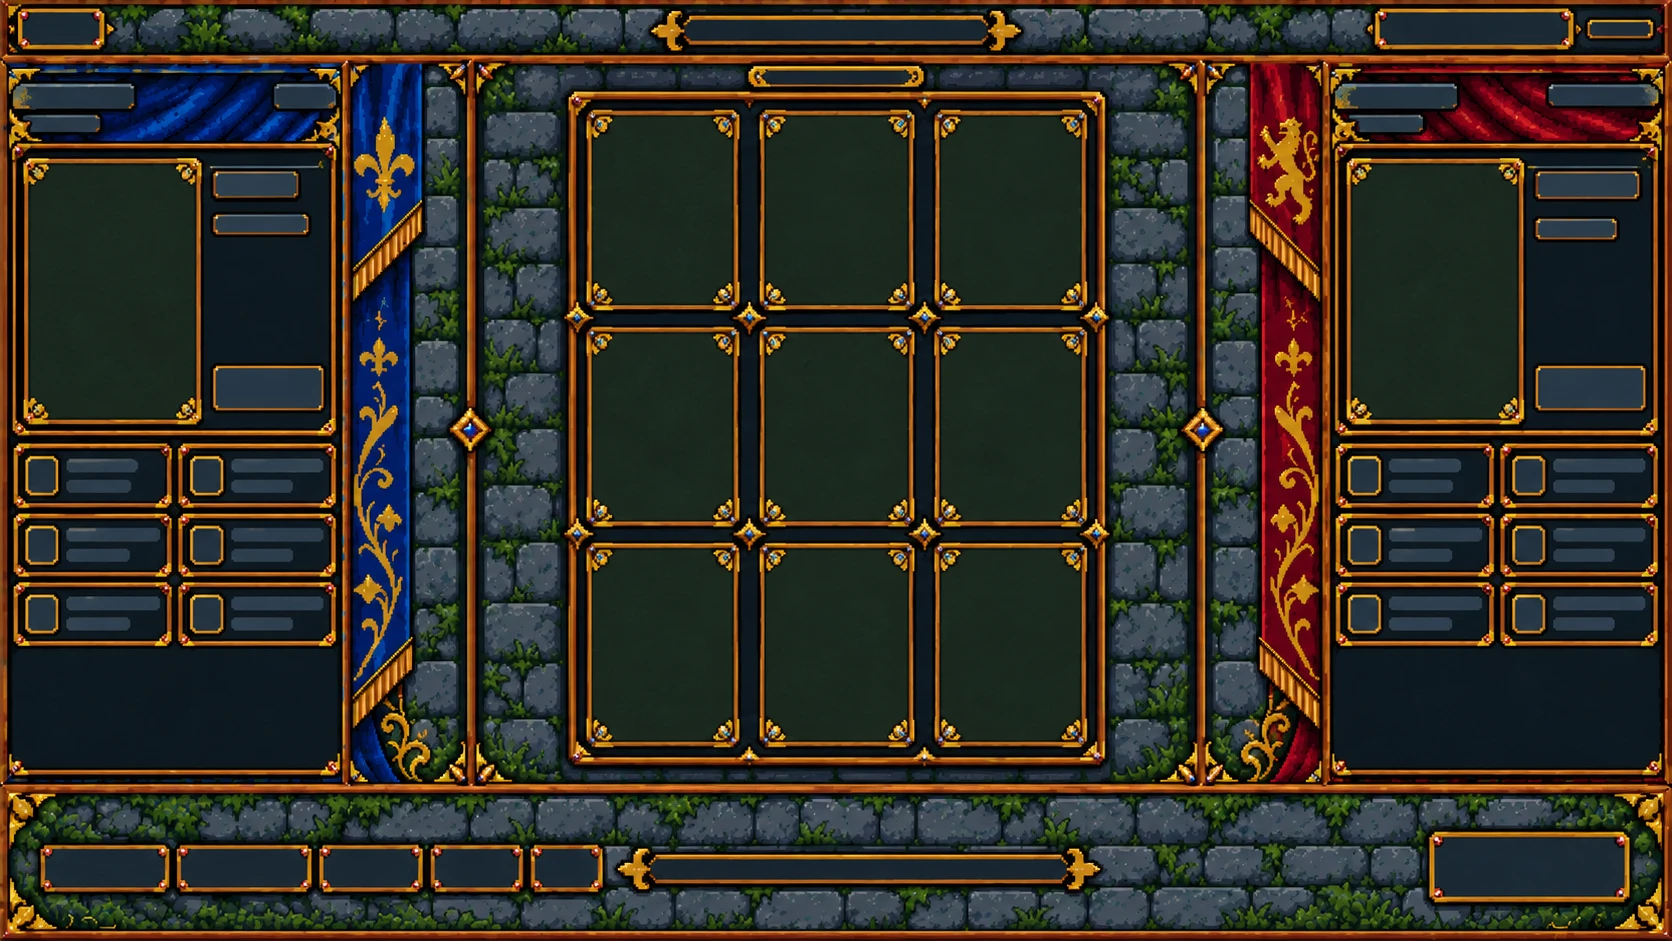
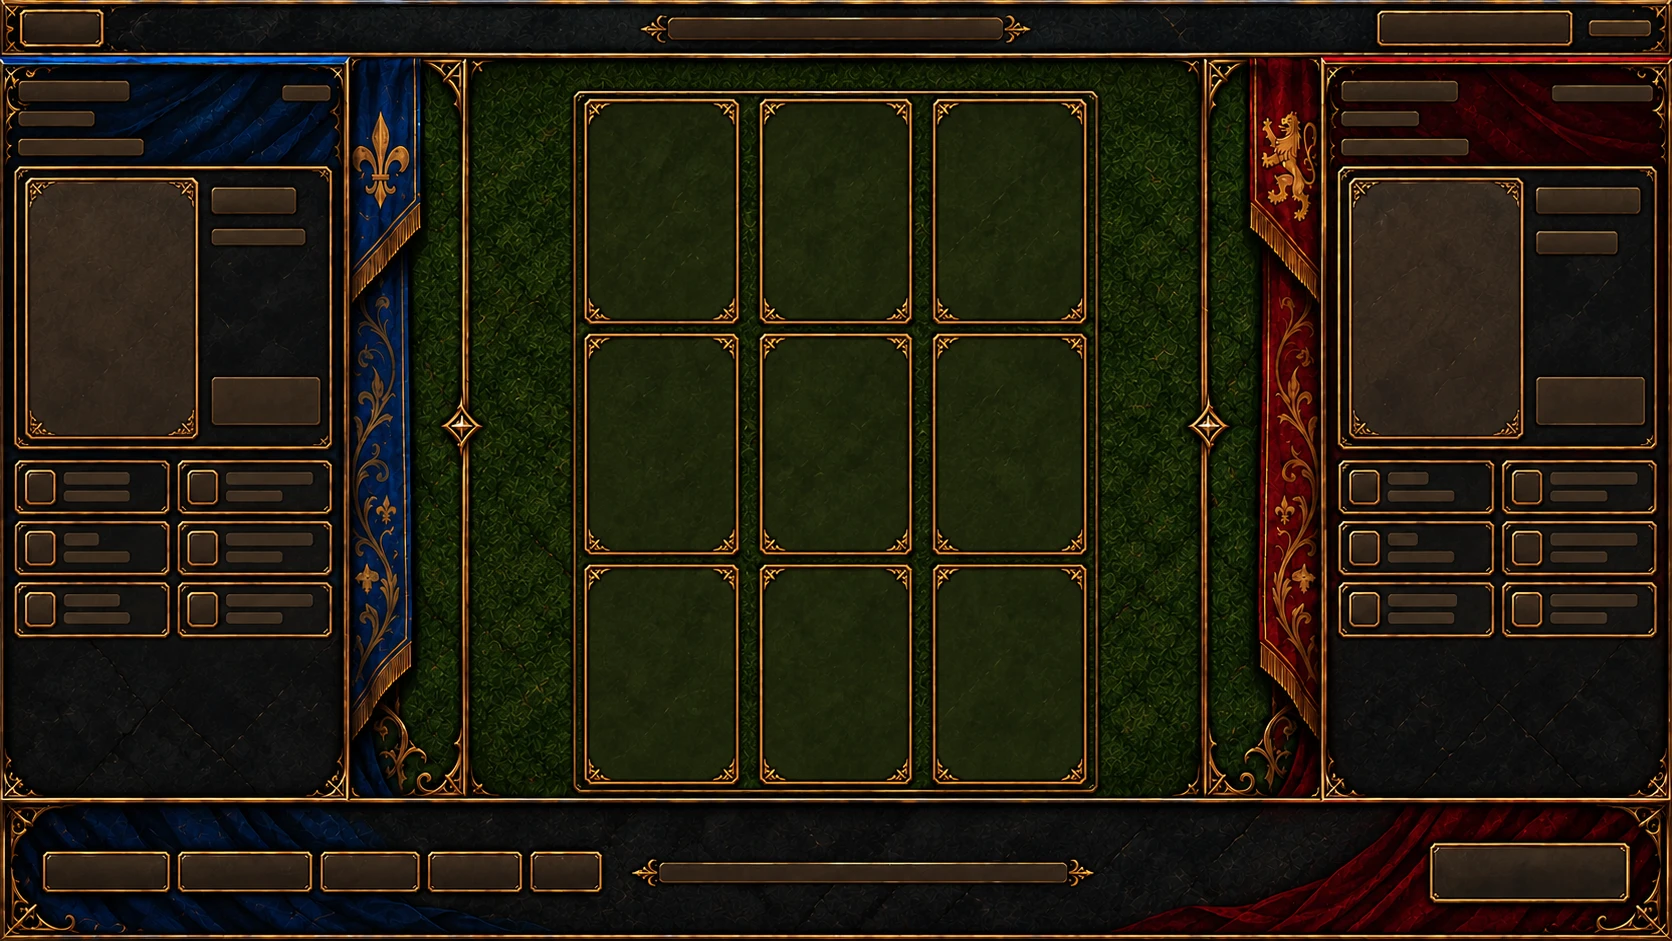
Use the green felt board art for the Region board and Region view
Both skins swapped for the new green felt and bronze artwork. Region view
board squares (175x250) and the Captain panel (Region line, name plaques,
Knight token text) re-aligned to the new art's frames.

diff --git a/src/ui/screens/skin.css b/src/ui/screens/skin.css
@@ -339,9 +339,13 @@
   line-height: 22px;
 }
 
-/* The Region's name is shown above the board, so the panel skips it. */
+/* "In <Region>" sits on the third header bar of the art. */
 .player-panel--company .company__where {
-  display: none;
+  display: block;
+  margin: -4px 0 0;
+  font-size: 9px;
+  line-height: 16px;
+  text-shadow: 0 1px 0 #000;
 }
 
 .player-panel--company .company {
@@ -486,4 +490,27 @@
   grid-area: auto;
   grid-column: 1 / -1;
   grid-row: 2;
+}
+
+/* Captain block: card in the portrait frame, name and Lord on the two plaques. */
+.player-panel--company .company__captain {
+  margin-top: 14px;
+  height: 312px;
+}
+
+.player-panel--company .company__captain-info {
+  padding-top: 18px;
+}
+
+.player-panel--company .company__captain-lord {
+  margin-top: 22px;
+}
+
+.player-panel--company .company__knights {
+  margin-top: 16px;
+}
+
+/* Token text centered on the art's two token bars. */
+.player-panel--company .knight-token {
+  padding-top: 14px;
 }

diff --git a/src/ui/campaign/regionView.css b/src/ui/campaign/regionView.css
@@ -26,17 +26,17 @@
 
 .inner-board {
   position: absolute;
-  left: 275px;
-  top: 65px;
+  left: 272px;
+  top: 51px;
   display: grid;
-  grid-template-columns: repeat(3, 172px);
-  grid-template-rows: repeat(3, 222px);
-  gap: 28px;
+  grid-template-columns: repeat(3, 175px);
+  grid-template-rows: repeat(3, 250px);
+  gap: 16px 26px;
 }
 
 .inner-board__square {
-  width: 172px;
-  height: 222px;
+  width: 175px;
+  height: 250px;
   display: grid;
   place-items: center;
   padding: 0;
@@ -132,7 +132,7 @@
 .board-piece {
   position: relative;
   width: 160px;
-  height: 210px;
+  height: 236px;
   display: flex;
   flex-direction: column;
   align-items: center;

diff --git a/docs/DECISIONS.md b/docs/DECISIONS.md
@@ -48,7 +48,7 @@ Knights have placeholder names, shown as "Sir Gareth" (36 per side, set in `src/
 ## Region board skin — Settled
 
 - The match screen uses the owner's 16:9 artwork `src/assets/ui/region-board-skin.webp` (built over the layout wireframe in `design/templates`). Each area (top bar, side panels, Region board, phase window) shows its own slice of it, so the game's boxes sit on the art's frames; the Region board slice zooms with the camera.
-- When zoomed into a Region, the frame, side panels and board switch to the Region view artwork `src/assets/ui/region-view-skin.webp`; its board slice zooms in from the tile. Its board squares are 172×222, so Knight cards there are 148×222. The Captain panel's Region name line is dropped (the name is shown above the board), and its stats show militia and reserve.
+- When zoomed into a Region, the frame, side panels and board switch to the Region view artwork `src/assets/ui/region-view-skin.webp`; its board slice zooms in from the tile. Its board squares are 175×250. The Captain panel shows "In <Region>" on the third header bar, the Captain's name and Lord on the plaques beside the portrait, and militia and reserve on the stats plaque.
 - Battles take place on the field artwork `src/assets/ui/battle-field.webp` (sky, mountains and grass), scaled to cover the battle area.
 - Styles live in `src/ui/screens/skin.css`. Any new skin must keep the wireframe's zone positions and sizes.
 
